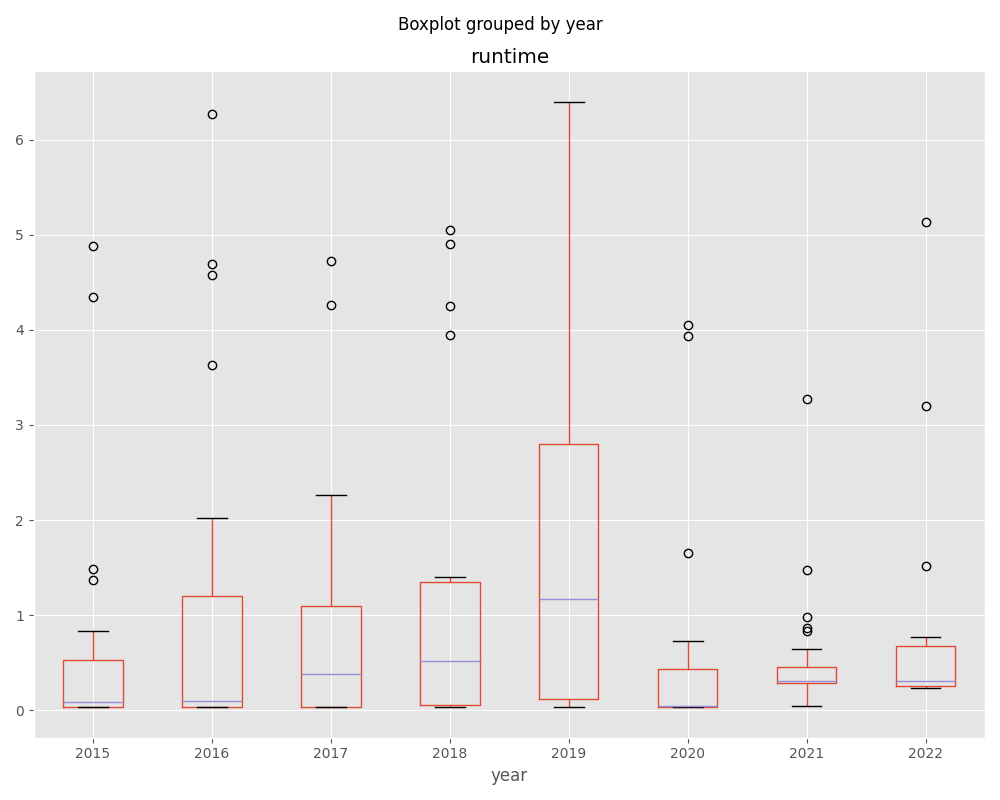
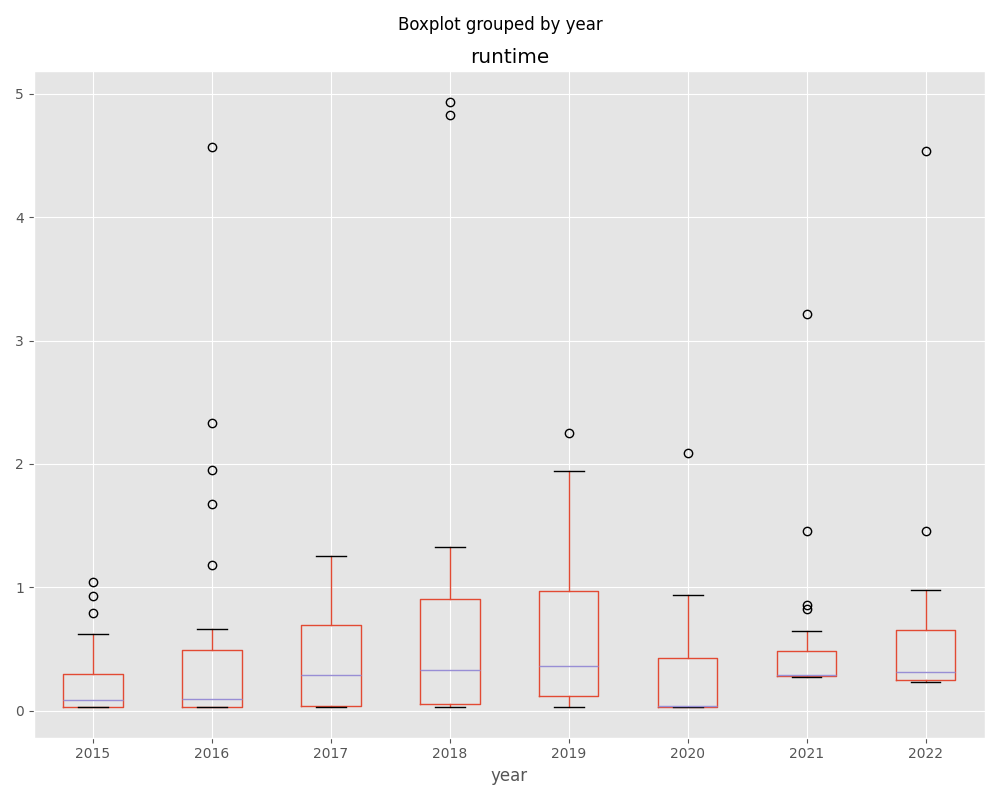
Add support for archiving graphs rather than overwriting them, re-create graphs following recent changes

diff --git a/scripts/graph.py b/scripts/graph.py
@@ -1,6 +1,7 @@
 import json
 from argparse import ArgumentParser
 from dataclasses import dataclass
+from datetime import datetime
 from pathlib import Path
 from typing import Any, Optional
 
@@ -10,21 +11,30 @@ import pandas as pd
 
 @dataclass(frozen=True)
 class FigureSaver:
-    overwrite: bool
+    archive: bool
+    archive_directory: Optional[Path]
 
     def save(self, name: str, ax: Any, legend: Optional[dict] = None) -> None:
         fig_path = Path(f"images/{name}.png")
-        if not self.overwrite and fig_path.exists():
+        self.archive_figure(fig_path)
+        if fig_path.exists():
             print(f"Skipping {fig_path} as it already exists")
-        else:
-            if legend is not None:
-                ax.get_figure().legend(**legend)
-            plt.tight_layout()
-            ax.get_figure().savefig(str(fig_path))
+            return
+        if legend is not None:
+            ax.get_figure().legend(**legend)
+        plt.tight_layout()
+        ax.get_figure().savefig(str(fig_path))
         ax.get_figure().clear()
 
+    def archive_figure(self, fig_path: Path) -> None:
+        if not fig_path.exists() or not self.archive:
+            return
+        assert self.archive_directory is not None
+        assert self.archive_directory.exists()
+        fig_path.rename(self.archive_directory.joinpath(fig_path.name))
 
-def main(overwrite: bool) -> None:
+
+def main(archive: bool) -> None:
     plt.style.use("ggplot")
 
     runtimes_file = Path("all.json")
@@ -32,8 +42,17 @@ def main(overwrite: bool) -> None:
         raise Exception(f"Looks like runtimes were never determined: {runtimes_file}")
     runtimes = pd.DataFrame(json.loads(runtimes_file.read_text()))
 
-    saver = FigureSaver(overwrite=overwrite)
+    archive_directory = None
+    if archive:
+        date_directory = datetime.now().strftime("%Y-%m-%d-%H-%M")
+        archive_directory = Path("images/archive").joinpath(date_directory)
+        archive_directory.mkdir(parents=True, exist_ok=False)
+    saver = FigureSaver(archive=archive, archive_directory=archive_directory)
 
+    create_graphs(runtimes, saver)
+
+
+def create_graphs(runtimes: pd.DataFrame, saver: FigureSaver) -> None:
     saver.save(
         name="runtime_language",
         ax=runtimes.boxplot(column="runtime", by="language", figsize=(8, 8)),
@@ -78,9 +97,9 @@ def main(overwrite: bool) -> None:
 if __name__ == "__main__":
     parser = ArgumentParser(description="Creates some fun graphs based on runtimes")
     parser.add_argument(
-        "--overwrite",
+        "--archive",
         action="store_true",
-        help="Overwrite existing graphs with the same name",
+        help="Archive existing graphs with the same name",
     )
     args = parser.parse_args()
-    main(args.overwrite)
+    main(args.archive)
